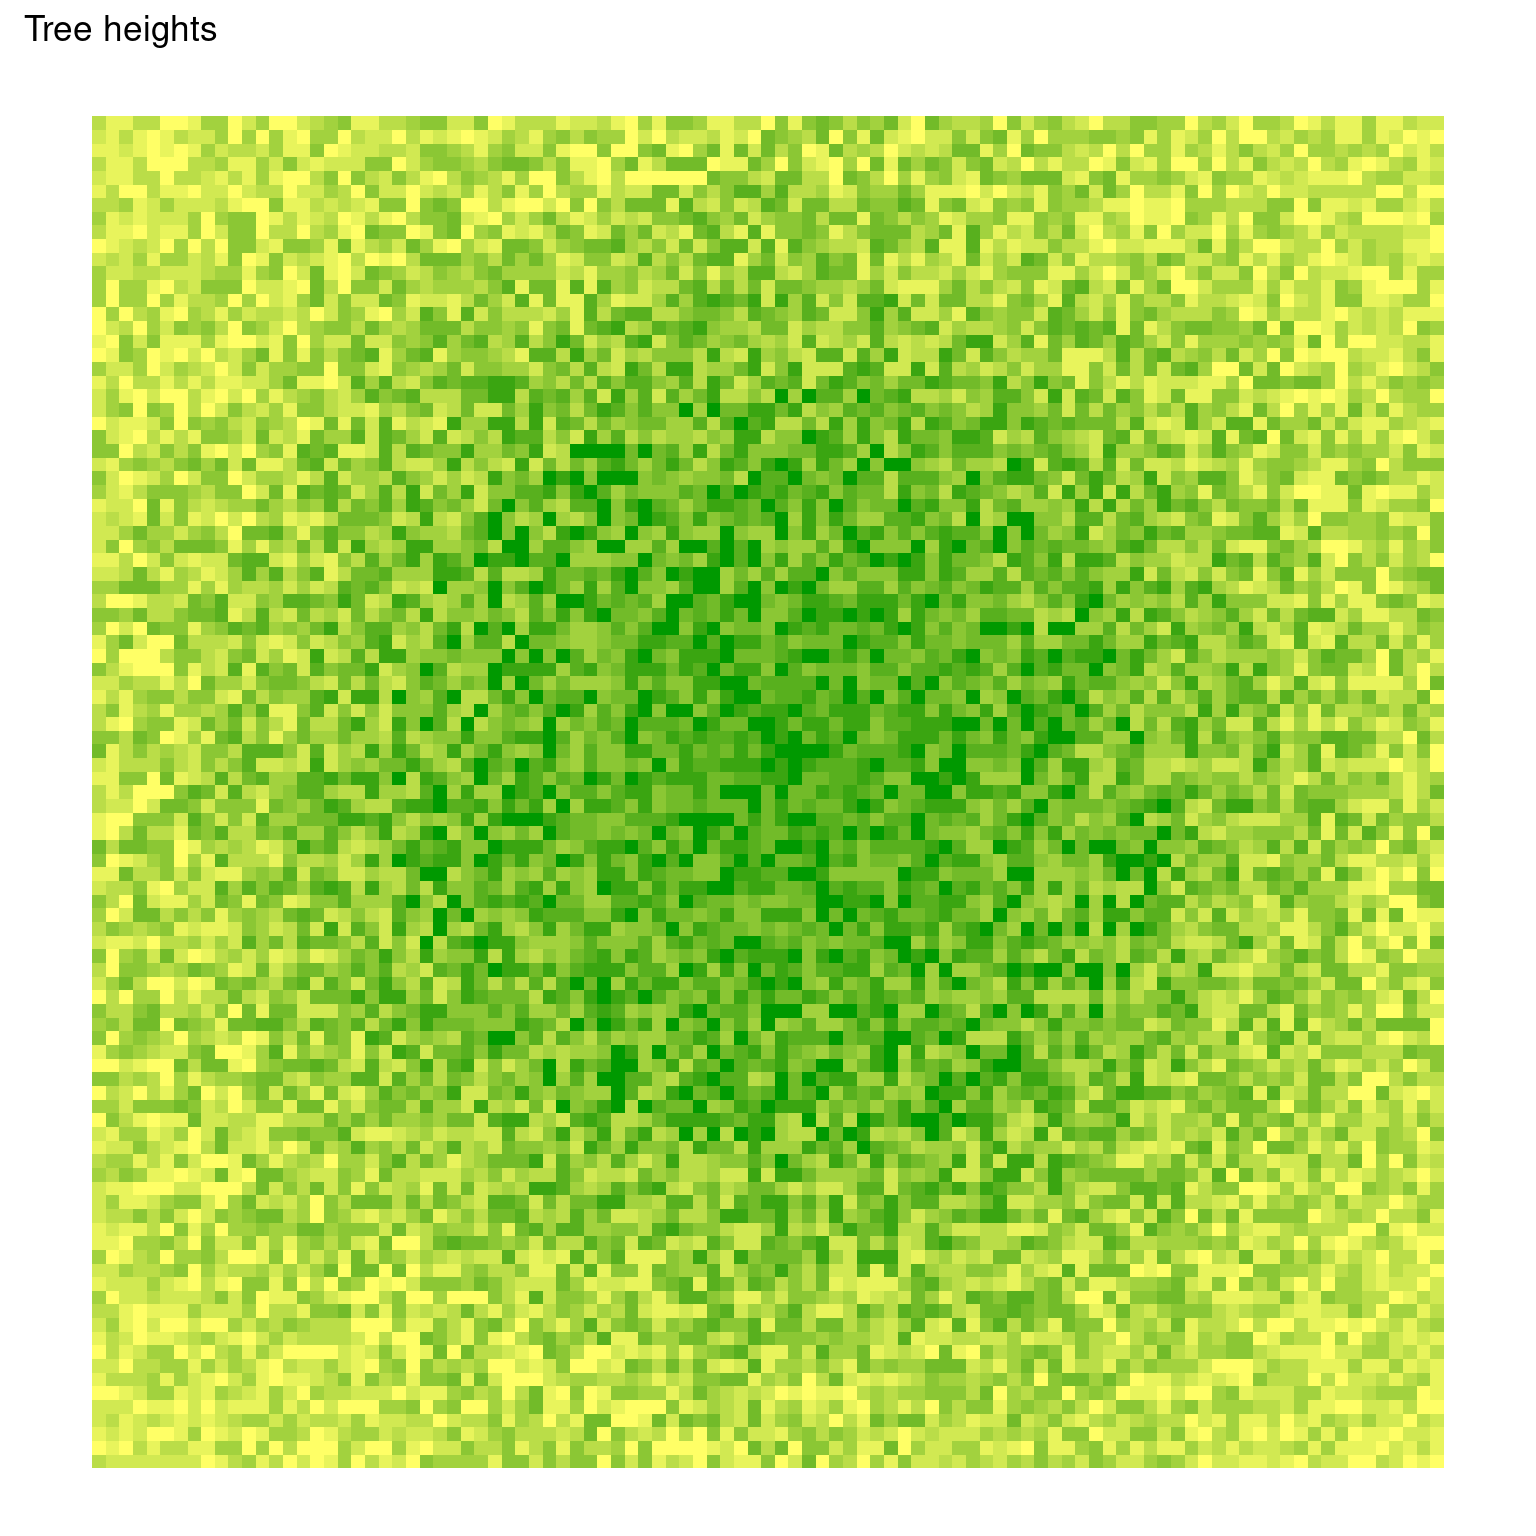
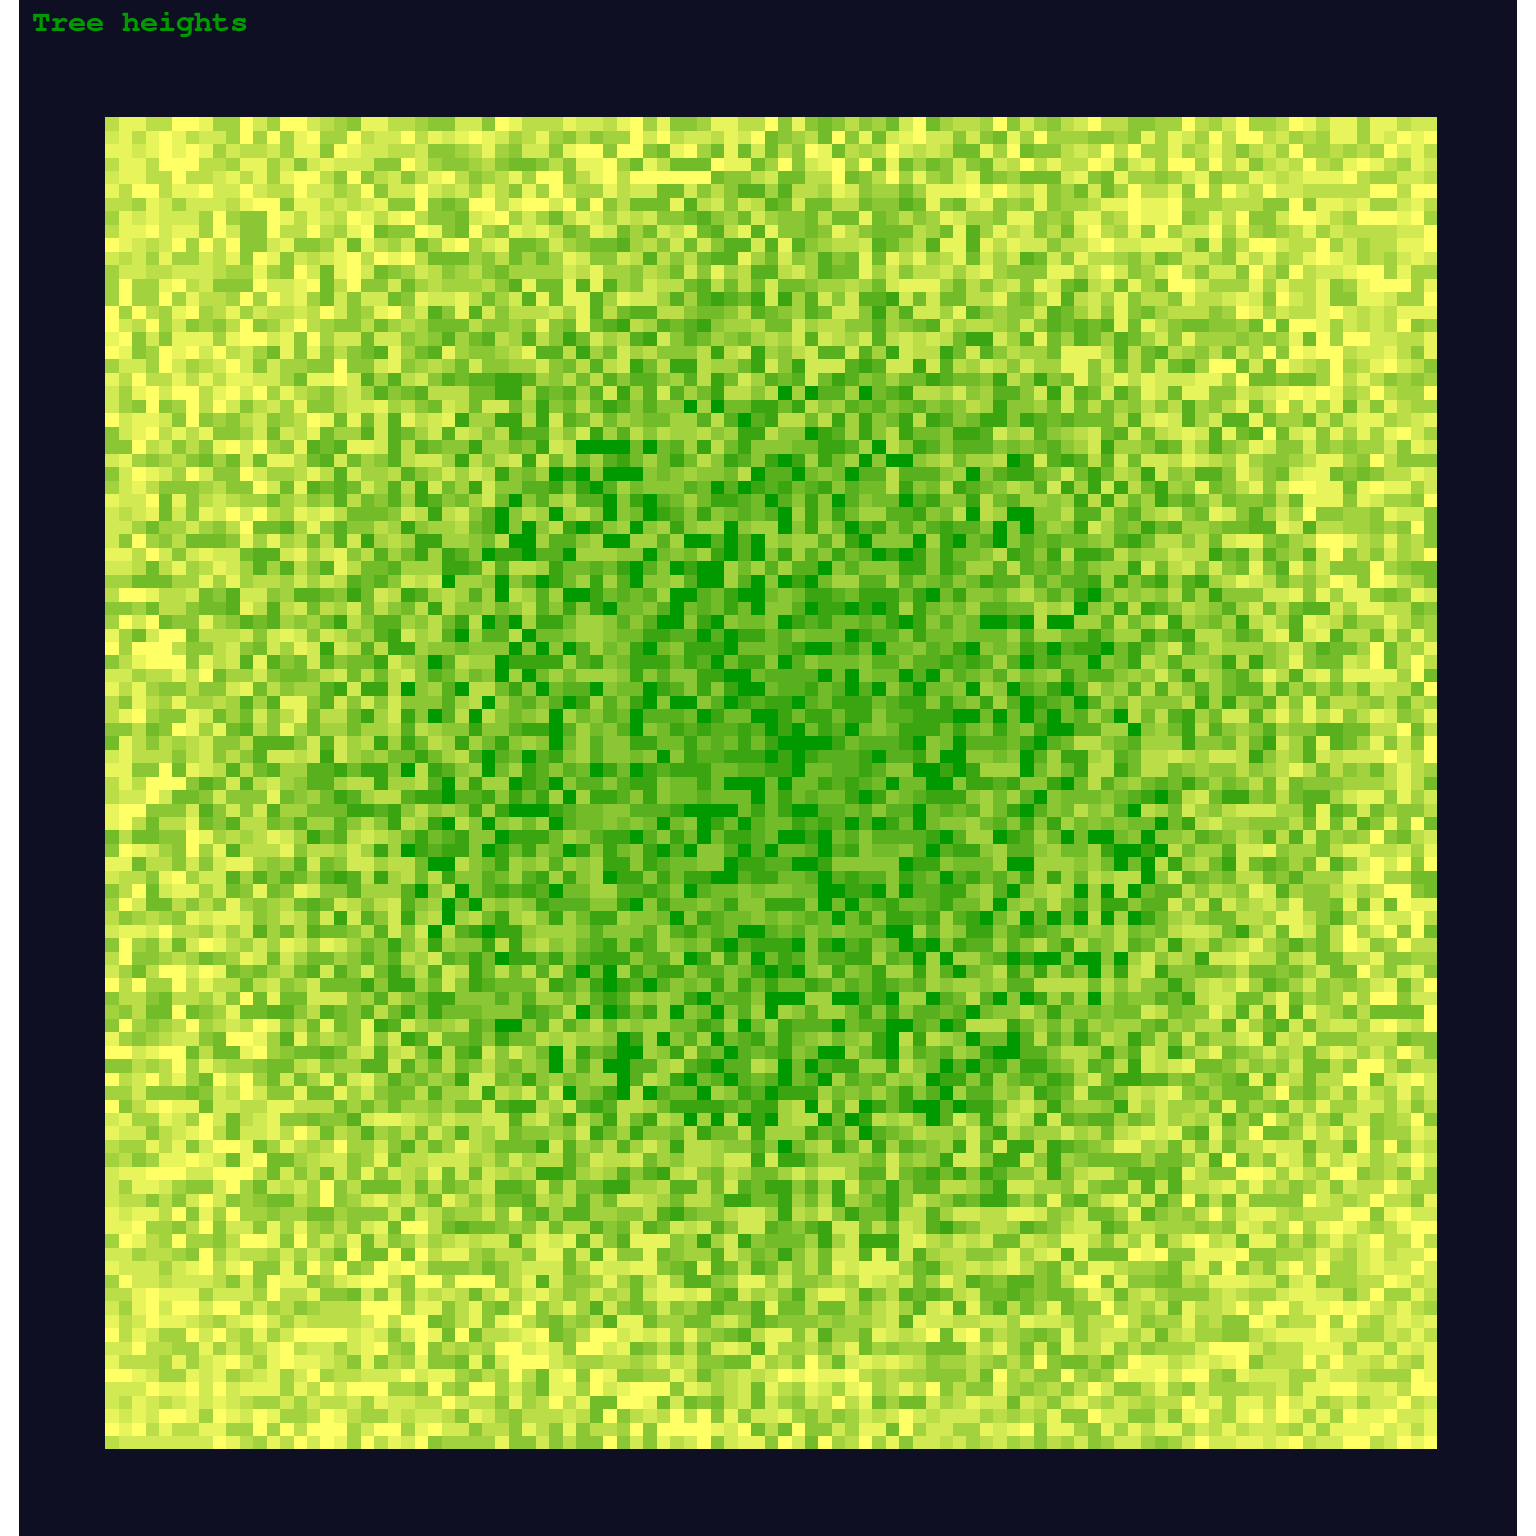
clean up chart format

diff --git a/index.html b/index.html
@@ -749,7 +749,7 @@ code span.wa { color: #60a0b0; font-weight: bold; font-style: italic; } /* Warni
 <span id="cb15-49"><a href="#cb15-49" aria-hidden="true" tabindex="-1"></a>  <span class="co">#geom_text(colour = 'white') +</span></span>
 <span id="cb15-50"><a href="#cb15-50" aria-hidden="true" tabindex="-1"></a>  <span class="fu">scale_fill_gradient</span>(<span class="at">high =</span> aoc_dgreen, <span class="at">low =</span> aoc_yellow) <span class="sc">+</span></span>
 <span id="cb15-51"><a href="#cb15-51" aria-hidden="true" tabindex="-1"></a>  <span class="fu">coord_fixed</span>() <span class="sc">+</span></span>
-<span id="cb15-52"><a href="#cb15-52" aria-hidden="true" tabindex="-1"></a>  <span class="fu">theme_void</span>() <span class="sc">+</span></span>
+<span id="cb15-52"><a href="#cb15-52" aria-hidden="true" tabindex="-1"></a>  <span class="fu">theme_aoc_null</span>() <span class="sc">+</span></span>
 <span id="cb15-53"><a href="#cb15-53" aria-hidden="true" tabindex="-1"></a>  <span class="fu">labs</span>(</span>
 <span id="cb15-54"><a href="#cb15-54" aria-hidden="true" tabindex="-1"></a>    <span class="at">title =</span> <span class="st">'Tree heights'</span></span>
 <span id="cb15-55"><a href="#cb15-55" aria-hidden="true" tabindex="-1"></a>  ) <span class="sc">+</span></span>
@@ -770,14 +770,13 @@ code span.wa { color: #60a0b0; font-weight: bold; font-style: italic; } /* Warni
 <div class="sourceCode cell-code" id="cb17"><pre class="sourceCode r code-with-copy"><code class="sourceCode r"><span id="cb17-1"><a href="#cb17-1" aria-hidden="true" tabindex="-1"></a>visible <span class="sc">|&gt;</span> </span>
 <span id="cb17-2"><a href="#cb17-2" aria-hidden="true" tabindex="-1"></a>  <span class="fu">ggplot</span>(<span class="fu">aes</span>(row, column, <span class="at">fill =</span> visible, <span class="at">label =</span> tree)) <span class="sc">+</span> </span>
 <span id="cb17-3"><a href="#cb17-3" aria-hidden="true" tabindex="-1"></a>  <span class="fu">geom_tile</span>() <span class="sc">+</span></span>
-<span id="cb17-4"><a href="#cb17-4" aria-hidden="true" tabindex="-1"></a>  <span class="co">#geom_text(colour = 'white') +</span></span>
-<span id="cb17-5"><a href="#cb17-5" aria-hidden="true" tabindex="-1"></a>  <span class="fu">scale_fill_manual</span>(<span class="at">values =</span> <span class="fu">c</span>(<span class="st">'FALSE'</span> <span class="ot">=</span> aoc_yellow, <span class="st">'TRUE'</span> <span class="ot">=</span> aoc_dgreen)) <span class="sc">+</span></span>
-<span id="cb17-6"><a href="#cb17-6" aria-hidden="true" tabindex="-1"></a>  <span class="fu">coord_fixed</span>() <span class="sc">+</span></span>
-<span id="cb17-7"><a href="#cb17-7" aria-hidden="true" tabindex="-1"></a>  <span class="fu">theme_void</span>() <span class="sc">+</span></span>
-<span id="cb17-8"><a href="#cb17-8" aria-hidden="true" tabindex="-1"></a>  <span class="fu">labs</span>(</span>
-<span id="cb17-9"><a href="#cb17-9" aria-hidden="true" tabindex="-1"></a>    <span class="at">title =</span> <span class="st">'Visible trees'</span></span>
-<span id="cb17-10"><a href="#cb17-10" aria-hidden="true" tabindex="-1"></a>  ) <span class="sc">+</span></span>
-<span id="cb17-11"><a href="#cb17-11" aria-hidden="true" tabindex="-1"></a>  <span class="fu">guides</span>(<span class="at">fill =</span> <span class="st">'none'</span>)</span></code><button title="Copy to Clipboard" class="code-copy-button"><i class="bi"></i></button></pre></div>
+<span id="cb17-4"><a href="#cb17-4" aria-hidden="true" tabindex="-1"></a>  <span class="fu">scale_fill_manual</span>(<span class="at">values =</span> <span class="fu">c</span>(<span class="st">'FALSE'</span> <span class="ot">=</span> aoc_yellow, <span class="st">'TRUE'</span> <span class="ot">=</span> aoc_dgreen)) <span class="sc">+</span></span>
+<span id="cb17-5"><a href="#cb17-5" aria-hidden="true" tabindex="-1"></a>  <span class="fu">coord_fixed</span>() <span class="sc">+</span></span>
+<span id="cb17-6"><a href="#cb17-6" aria-hidden="true" tabindex="-1"></a>  <span class="fu">theme_aoc_null</span>() <span class="sc">+</span></span>
+<span id="cb17-7"><a href="#cb17-7" aria-hidden="true" tabindex="-1"></a>  <span class="fu">labs</span>(</span>
+<span id="cb17-8"><a href="#cb17-8" aria-hidden="true" tabindex="-1"></a>    <span class="at">title =</span> <span class="st">'Visible trees'</span></span>
+<span id="cb17-9"><a href="#cb17-9" aria-hidden="true" tabindex="-1"></a>  ) <span class="sc">+</span></span>
+<span id="cb17-10"><a href="#cb17-10" aria-hidden="true" tabindex="-1"></a>  <span class="fu">guides</span>(<span class="at">fill =</span> <span class="st">'none'</span>)</span></code><button title="Copy to Clipboard" class="code-copy-button"><i class="bi"></i></button></pre></div>
 </details>
 <div class="cell-output-display">
 <p><img src="index_files/figure-html/read-day8-part1-chart-1.png" class="img-fluid" width="768"></p>
@@ -859,6 +858,8 @@ The ... is
 <ul>
 <li>Read files straight from website rather than copying, but this won’t work for the example data</li>
 <li>Using a PAT for Github access from RStudio Cloud is painful</li>
+<li>Circle back to improve after reviewing other peoples code.</li>
+<li>Use the same Fira Code font for the charts</li>
 </ul>
 </section>
 <section id="source-code" class="level1">
